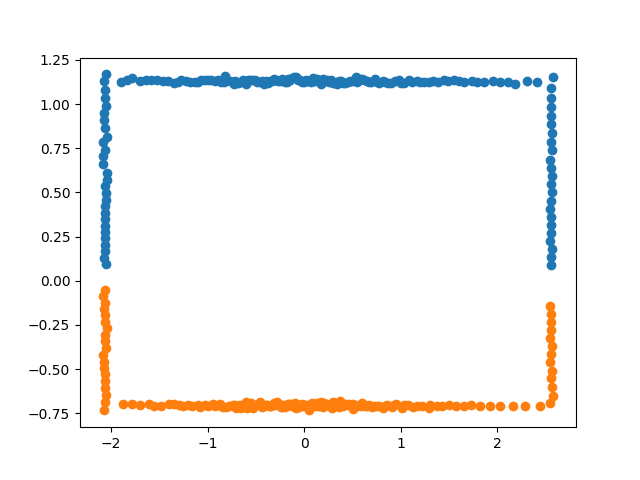
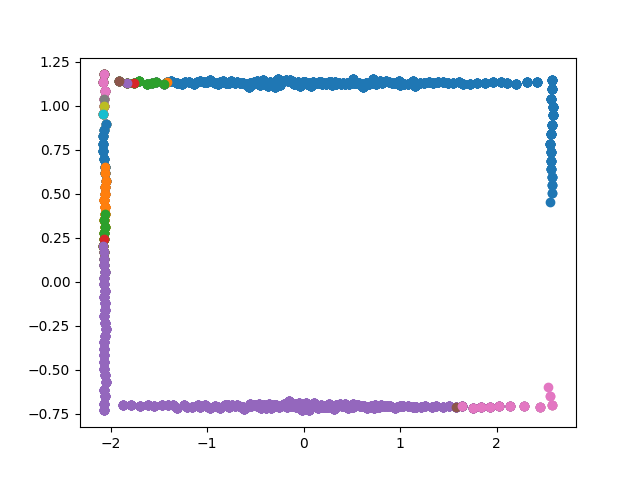
line detection using groups.

diff --git a/src/lidablo/lidablo/task2.py b/src/lidablo/lidablo/task2.py
@@ -42,16 +42,16 @@ class FeatureExtracter(Node):
 
     #     return points
 
-    def polar_to_cartesian_coordinate(self, ranges, angle_min, angle_max, angle_increment, msg):
+    def polar_to_cartesian_coordinate(self, msg):
 
-        angle = angle_min               # start angle
+        angle = msg.angle_min               # start angle
         tf_points = []
-        for range in ranges:
+        for range in msg.ranges:
             x = range * np.cos(angle)
             y = range * np.sin(angle)
 
             # current angle is last angle add angle_increment
-            angle += angle_increment
+            angle += msg.angle_increment
             tf_points.append([x, y])
 
         # transform the transformed points to numpy array
@@ -67,8 +67,7 @@ class FeatureExtracter(Node):
         step_size = 5
         accepted_error_rad = 0.1745
         angles_and_errors = []
-        ranges = self.polar_to_cartesian_coordinate(
-            msg.ranges, msg.angle_min, msg.angle_max, msg.angle_increment, "Detecting Corners.")
+        ranges = self.polar_to_cartesian_coordinate(msg)
 
         for idx, _ in enumerate(ranges):
             last_index = idx + window_size
@@ -105,76 +104,60 @@ class FeatureExtracter(Node):
         plt.savefig(f"img/corners-{msg}")
 
     def plot_lines(self, lines, msg):
-        # plt.figure()
+        plt.figure()
+        print("Line length : ", len(lines))
         for line in lines:
-            print("Line length : ", len(line))
-            # if len(line) > 0:
-            # plt.scatter(line[:, 0], line[:, 1])
-            # plt.savefig(f"img/lines-{msg}")
+            if len(line) > 0:
+                # print(line)
+                line = np.array(line)
+                # plt.plot(line[:, 0], line[:, 1])
+                plt.scatter(line[:, 0], line[:, 1])
+        plt.savefig(f"img/lines-{msg}")
 
     def detect_lines(self, msg):
         total_ranges = len(msg.ranges) - 1
+        ranges = self.polar_to_cartesian_coordinate(msg)
 
-        ranges = self.polar_to_cartesian_coordinate(
-            msg.ranges, msg.angle_min, msg.angle_max, msg.angle_increment, "Detecting Corners.")
-
-        # for point in ranges:
-        #     x = []
-        #     y = []
-        # line = np.polyfit(x, y, 1)
-
-        accepted_error = 15
-        previous_slope = 0
+        window = 10
+        accepted_error = 3
         line = []
         lines = []
-        for idx, _ in enumerate(ranges):
-            next_idx = idx + 1
-            if next_idx < total_ranges:
+        for idx, _ in enumerate(ranges, window):
+            next_idx = idx + window
+            if next_idx + window < total_ranges:
 
-                current_point = ranges[idx]
-                next_point = ranges[next_idx]
+                current_point_group = ranges[idx:idx+window]
+                next_point_group = ranges[next_idx:next_idx+window]
 
-                current_slope = next_point[0] - current_point[0] / \
-                    next_point[1] - current_point[1]
+                current_poly = np.polyfit(
+                    current_point_group[:, 0], current_point_group[:, 1], 1)
 
-                slope_diff = np.abs(current_slope - previous_slope)
+                next_poly = np.polyfit(
+                    next_point_group[:, 0], next_point_group[:, 1], 1)
 
-                # print("Slope Diff  ", slope_diff)
+                calculated_err = np.abs(next_poly[0]) - np.abs(current_poly[0])
 
-                if (slope_diff <= accepted_error):
-                    line.append(current_point)
+                print("next_poly error Diff  ", next_poly)
+                print("current_poly error Diff  ", current_poly)
+
+                if (calculated_err <= accepted_error):
+                    line.extend(current_point_group)
                 else:
-                    # if len(line) > 0:
                     lines.append(line)
                     line = []
+                    line.extend(current_point_group)
 
-                previous_slope = current_slope
-        print("Number of Lines ", len(lines))
-        lines = np.array(lines, dtype=object)
+                # previous_slope = current_poly
+        # print("Number of Lines ", len(lines))
         return lines
 
     def scan_callback(self, msg):
 
-        # self.polar_to_cartesian_coordinate(
-        # msg.ranges, msg.angle_min,
-        # msg.angle_max, msg.angle_increment)
-
-        #################################
-        ranges = []
-        for r in msg.ranges:
-            if r > 2.5 or r < 1.0:   # Feature extraction code here
-                ranges.append(0.0)
-            else:
-                ranges.append(r)
-
-        ##################################
-
-        # line = self.detect_lines(msg)
-        # print(line)
-
         corners = self.detect_corners(msg)
         lines = self.detect_lines(msg)
         self.plot_corners(corners, "Detecting Corners")
+        self.plot_corners(
+            self.polar_to_cartesian_coordinate(msg), "Range")
         self.plot_lines(lines, "Detecting Lines")
 
         scan = LaserScan()
@@ -186,7 +169,7 @@ class FeatureExtracter(Node):
         scan.time_increment = msg.time_increment
         scan.range_min = msg.range_min
         scan.range_max = msg.range_max
-        scan.ranges = ranges
+        scan.ranges = msg.ranges
         self.publisher_.publish(scan)
 
         self.scan_idx += 1
